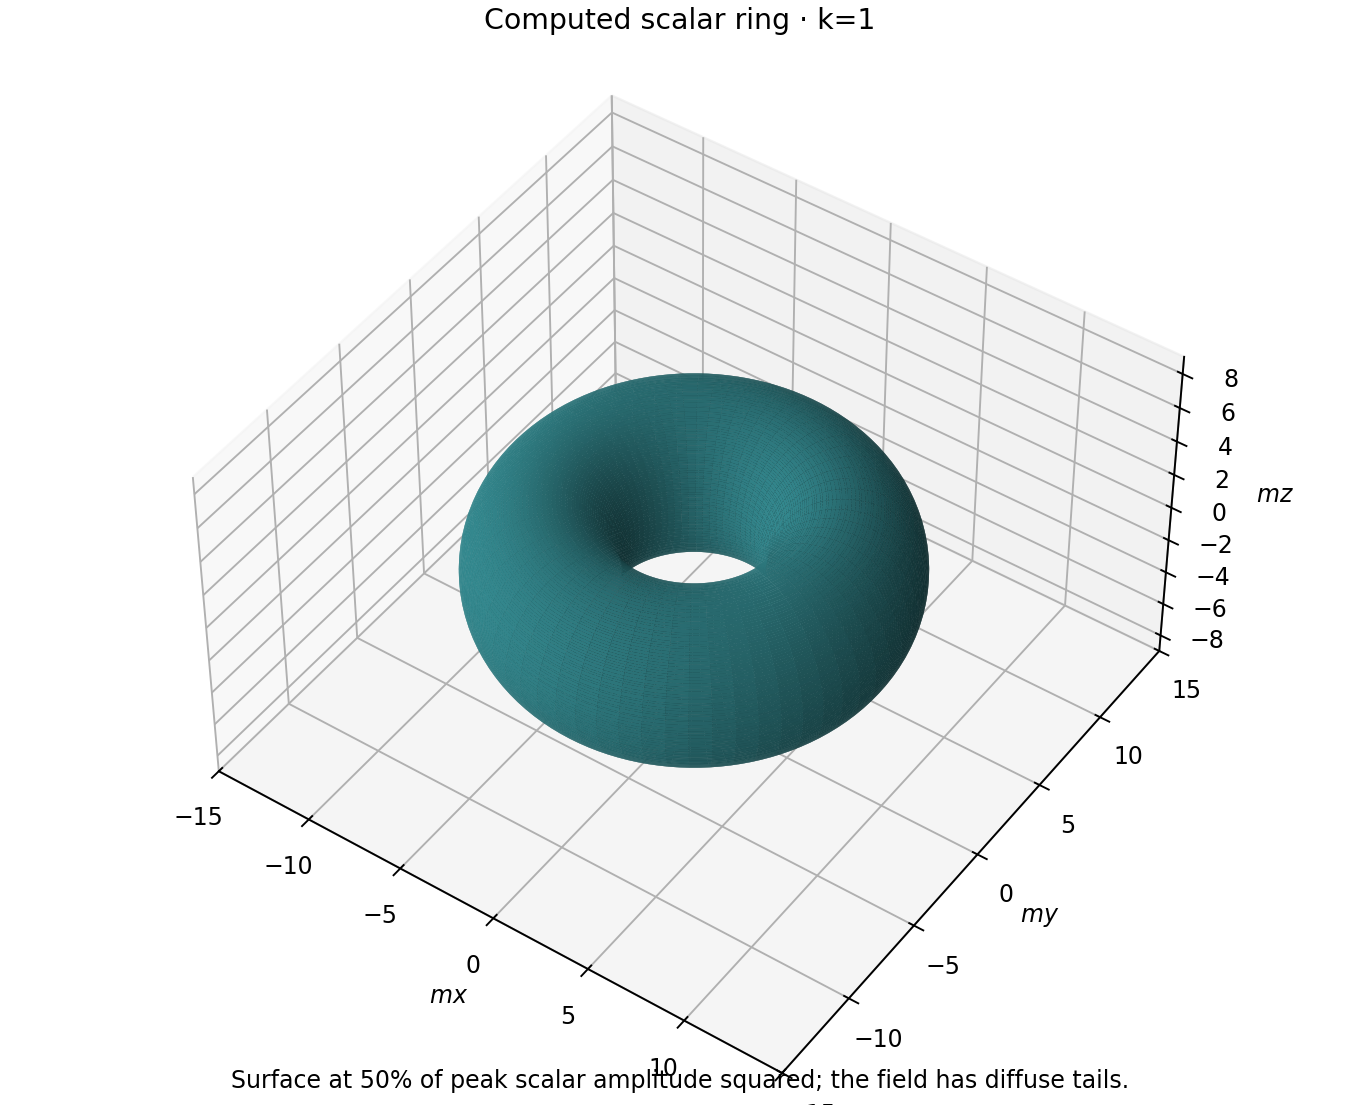
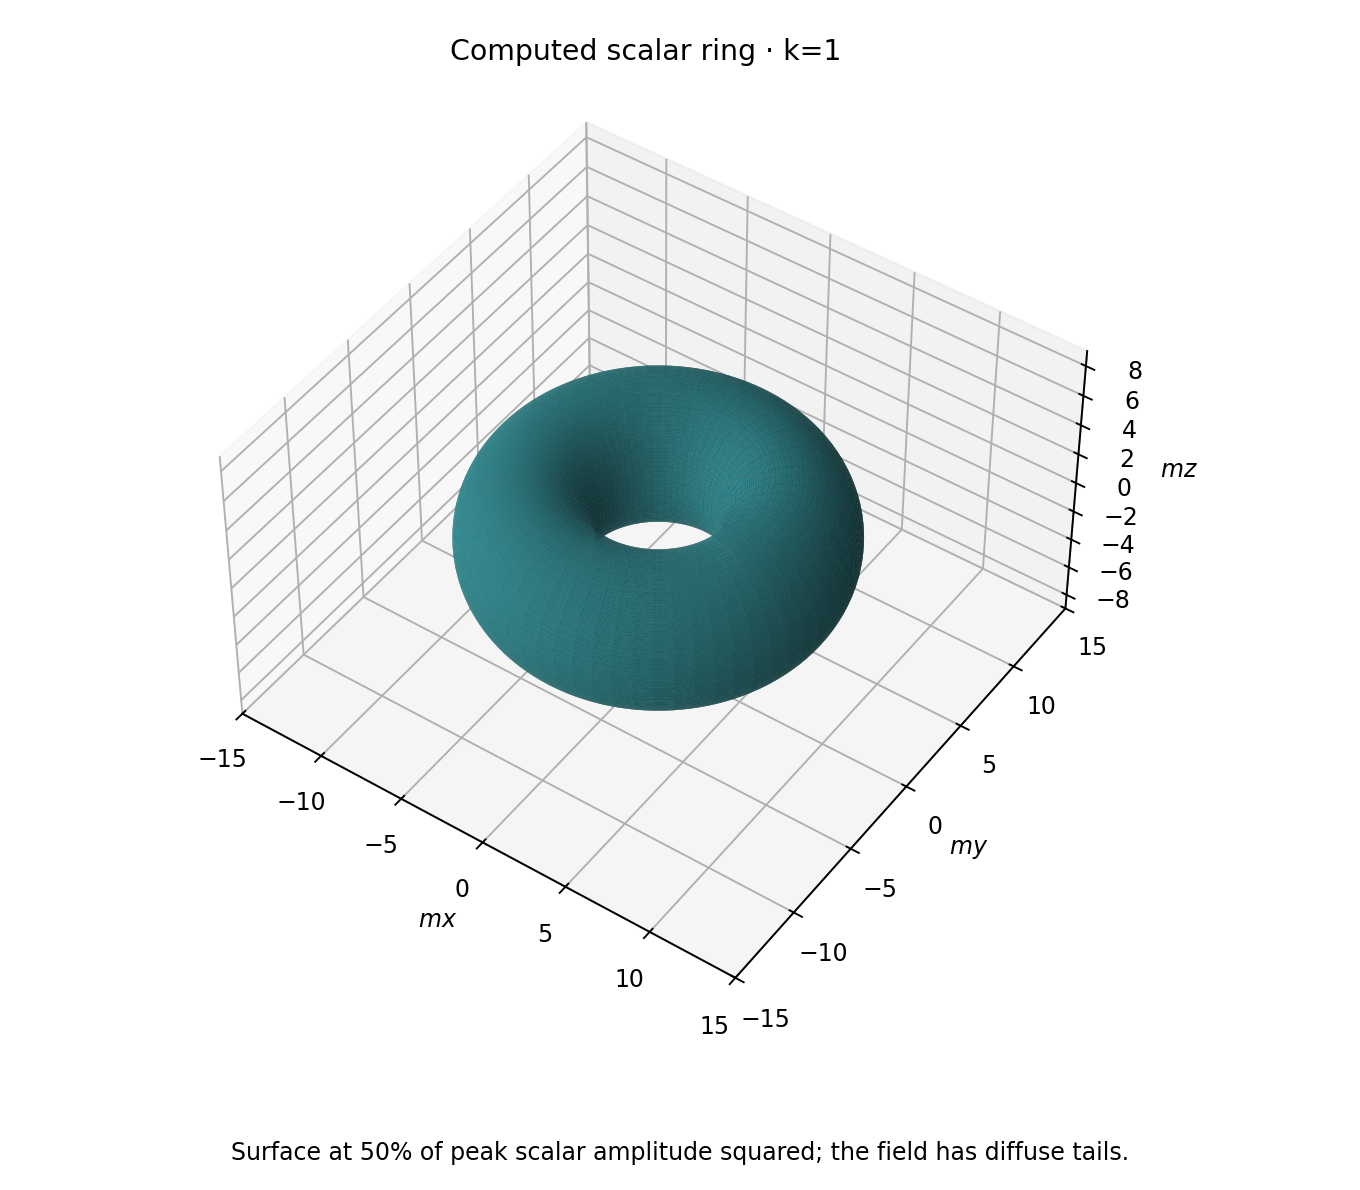
Keep the ring figure caption clear of the coordinate labels

diff --git a/grteclyn-wrapper/src/grteclyn_wrapper/visualisation/optimisation/plot_ring.py b/grteclyn-wrapper/src/grteclyn_wrapper/visualisation/optimisation/plot_ring.py
@@ -60,7 +60,8 @@ def main(argv=None):
                                        levels=[.5*np.max(amplitude**2)]).allsegs[0]
         plt.close(temporary)
         phi = np.linspace(0., 2*np.pi, 129)
-        fig = plt.figure(figsize=(8., 6.5), layout='constrained')
+        fig = plt.figure(figsize=(8., 7.))
+        fig.subplots_adjust(left=.02, right=.93, bottom=.16, top=.92)
         ax = fig.add_subplot(projection='3d')
         for contour in contours:
             rr, zz = contour[:, 0]*mass, contour[:, 1]*mass
@@ -76,7 +77,7 @@ def main(argv=None):
                zlim=(-.6*limit, .6*limit), box_aspect=(1., 1., .6))
         ax.view_init(elev=45., azim=-55.)
         ax.set_title(f'Computed scalar ring · k={field["winding"]}', pad=15.)
-        fig.text(.5, .015, 'Surface at 50% of peak scalar amplitude squared; the field has diffuse tails.',
+        fig.text(.5, .025, 'Surface at 50% of peak scalar amplitude squared; the field has diffuse tails.',
                  ha='center', fontsize=10)
     else:
         fig, axes = plt.subplots(1, 2, figsize=(9., 4.5), layout='constrained')
